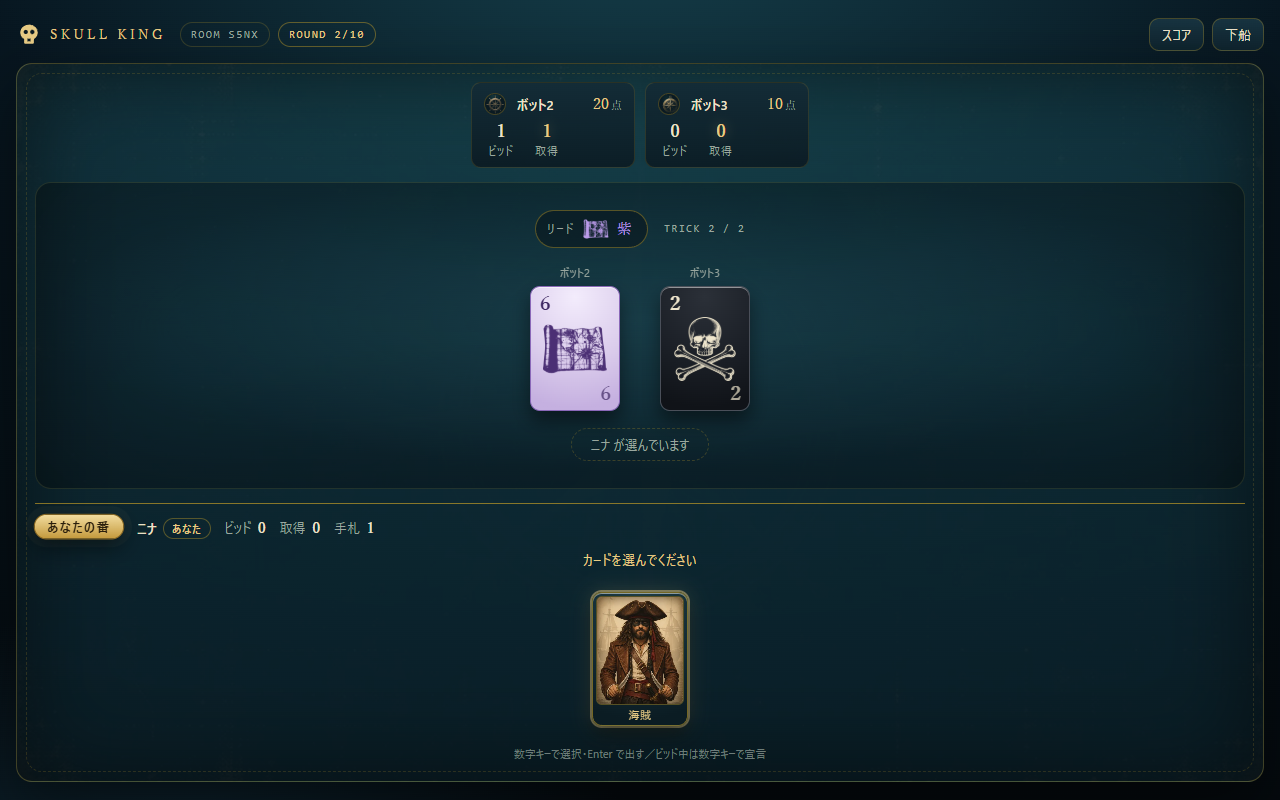
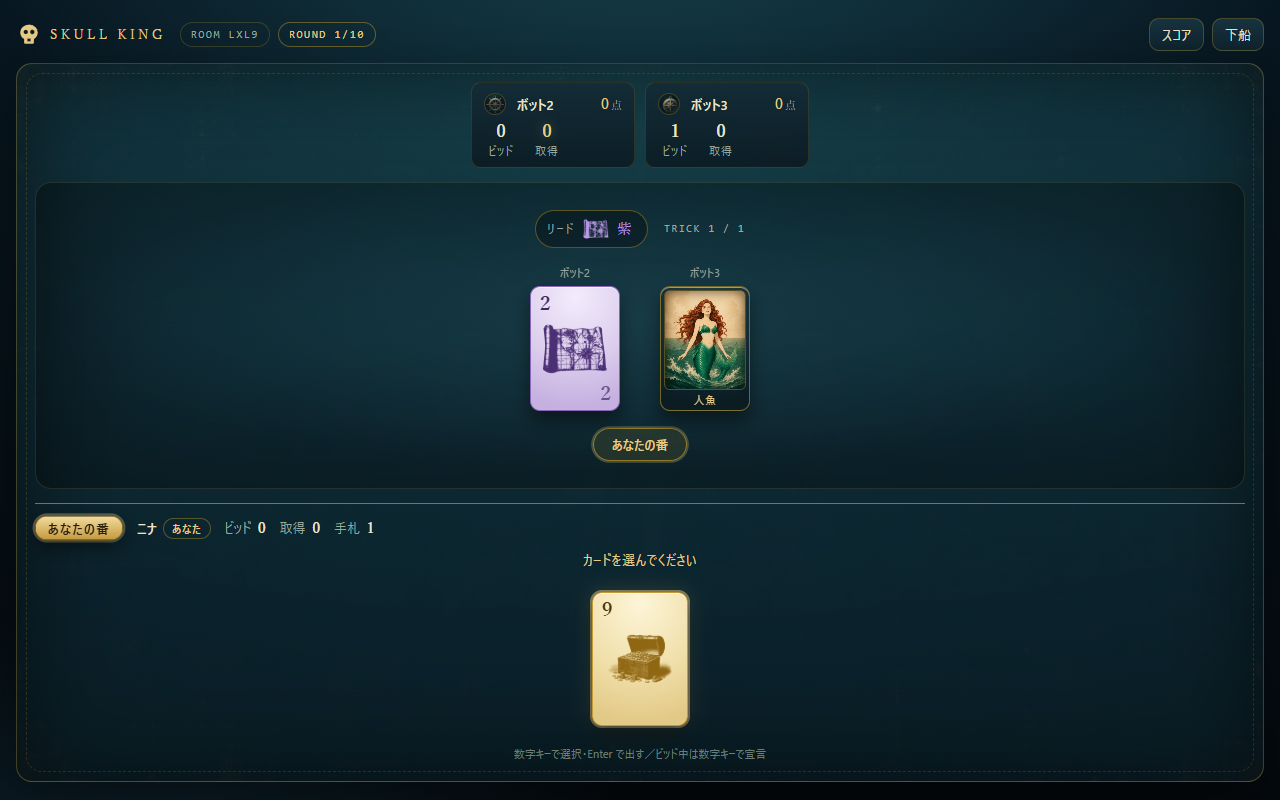
自分の番を分かりやすく: 場の待ち札を「あなたの番」に・手札を他人の番で沈めて自分の番で持ち上げる

diff --git a/apps/web/styles.css b/apps/web/styles.css
@@ -1109,6 +1109,33 @@ input:focus {
   transform-origin: 50% 130%;
 }
 
+/* 手番の切り替わりを手札そのもので知らせる。
+   他人の番は少し沈め、自分の番になった瞬間に一度だけ持ち上げる。 */
+.me-zone .hand {
+  opacity: 0.86;
+  transition: opacity 0.2s ease;
+}
+
+.me-zone.is-active .hand {
+  opacity: 1;
+}
+
+.me-zone.is-active .hand .card {
+  animation: handReady 0.55s ease-out 1;
+}
+
+@keyframes handReady {
+  0% {
+    transform: rotate(var(--rot, 0deg)) translateY(var(--lift, 0px));
+  }
+  45% {
+    transform: rotate(var(--rot, 0deg)) translateY(calc(var(--lift, 0px) - 14px));
+  }
+  100% {
+    transform: rotate(var(--rot, 0deg)) translateY(var(--lift, 0px));
+  }
+}
+
 .hand .card:first-child {
   margin-left: 0;
 }
@@ -1850,6 +1877,26 @@ input:focus {
 .arena-result.is-waiting {
   color: var(--muted);
   border: 1px dashed rgba(201, 162, 39, 0.25);
+}
+
+/* 自分の番だと分かるように、待ち札そのものを金の実線に変える。
+   「ニナ が選んでいます」と三人称で出ていたのも、自分の番だと気づきにくい原因だった。 */
+.arena-result.is-waiting.is-mine {
+  color: var(--brass-l);
+  border: 1px solid rgba(201, 162, 39, 0.65);
+  background: rgba(201, 162, 39, 0.12);
+  font-weight: 600;
+  animation: softGlow 1.8s ease-in-out infinite;
+}
+
+@keyframes softGlow {
+  0%,
+  100% {
+    box-shadow: 0 0 0 0 rgba(232, 203, 132, 0.35);
+  }
+  50% {
+    box-shadow: 0 0 0 7px rgba(232, 203, 132, 0);
+  }
 }
 
 .seat-play.is-winner .card {

diff --git a/apps/web/src/app.ts b/apps/web/src/app.ts
@@ -878,7 +878,11 @@ function Arena(props: { view: PlayerView; hideHead?: boolean; children?: unknown
               <b class="result-name">${winnerName}</b>
               ${bonus > 0 ? html`<span class="result-bonus">+${bonus}</span>` : null}
             </div>`
-        : html`<div class="arena-result is-waiting">${nameOf(view.turnSeat)} が選んでいます</div>`}
+        : html`<div
+            class=${`arena-result is-waiting${view.turnSeat === view.you.seat ? " is-mine" : ""}`}
+          >
+            ${view.turnSeat === view.you.seat ? "あなたの番" : `${nameOf(view.turnSeat)} が選んでいます`}
+          </div>`}
     </div>
   `;
 }
